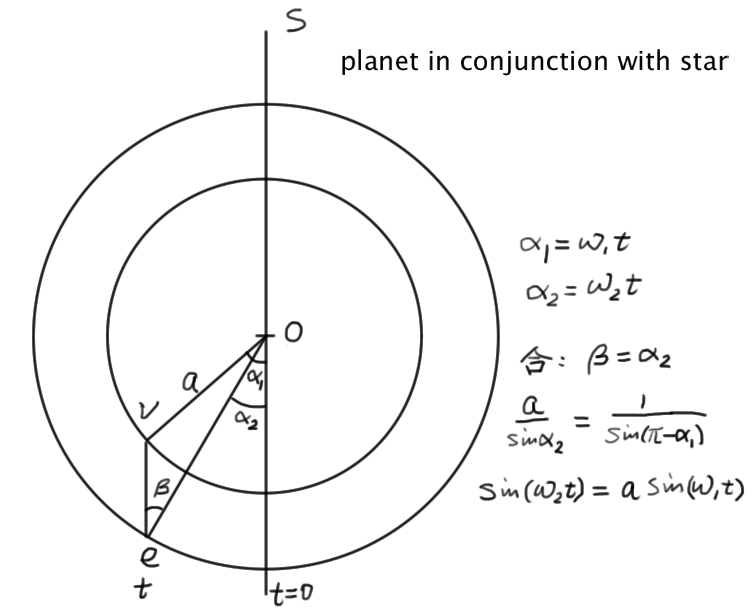
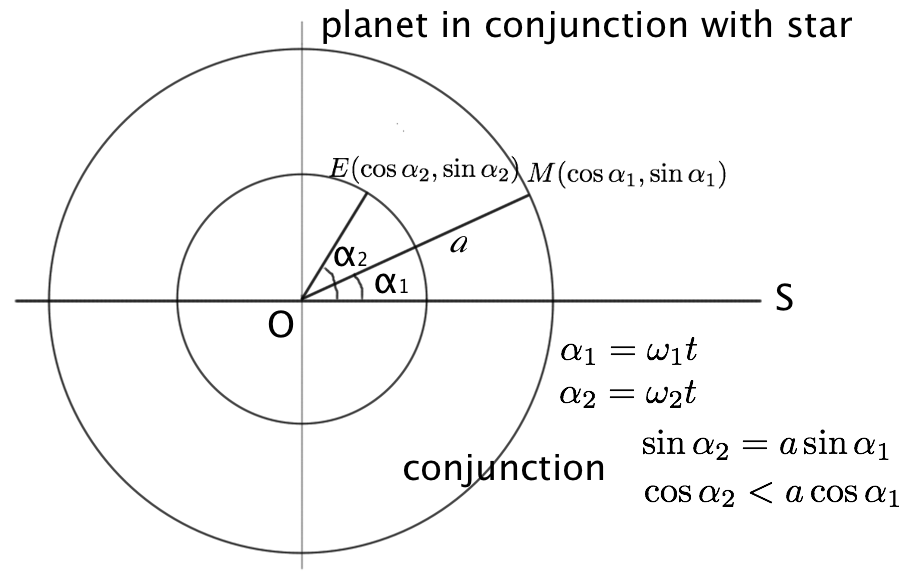
modify post 1

diff --git a/_site/feed/index.html b/_site/feed/index.html
@@ -7,7 +7,7 @@
     <title>dayigu</title>
     <link href="http://dayigu.github.com/feed/" rel="self" />
     <link href="http://yihui.name/" />
-    <lastBuildDate>2012-04-13T01:24:55+08:00</lastBuildDate>
+    <lastBuildDate>2012-04-13T17:55:14+08:00</lastBuildDate>
     <webMaster>xie@yihui.name</webMaster>
     
     <item>
@@ -18,44 +18,59 @@
       <guid>http://dayigu.github.com/2012/04/planet-in-conjunction-with-star</guid>
       <content:encoded><![CDATA[<p>行星与恒星相合是指从地球看过去，行星与该恒星在同一个方位，比如金星与昴星团相合。当然相合的条件首先是恒星位于太阳系行星运行的轨道平面上。那么某行星与某恒星相合的周期是多少呢?</p>
 
-<p>假设行星的轨道都为圆，且与地球轨道在同一平面上. 行星与恒星相合的条件(O为太阳，e是地球，v是行星，以金星为例，S是恒星的方向):</p>
+<p>假设行星的轨道都为圆，且与地球轨道在同一平面上. 行星与恒星相合的条件见下图(O为太阳，E是地球，M是行星，以火星为例，S是恒星的方向):</p>
 
 <p><img alt='行星与恒星相合的条件' src='/images/planet_star_conjunction.png' /></p>
 
-<p>假设在 t=0 时相合，经过 t 的时间再次相合，则 e-&gt;v 必须达到与 t＝0 相同的方向. 因此得到相合的条件:</p>
+<p>假设在 t=0 时相合，经过 t 的时间再次相合，则 e-&gt;v 必须达到与 t＝0 相同的方向，即E和M的y坐标相同，且E在M的左侧. 因此得到相合的条件:</p>
 
-<p><img alt='相合方程' src='/images/latex/eq_7378894517581845269_2.png' /></p>
+<p><img alt='相合方程' src='/images/latex/eq_7378894517581845269_2.png' /> 且 <img alt='相合条件' src='/images/latex/eq_2329005520818939421_2.png' /></p>
 
-<p>该方程不好求解，先把这两项的差值随时间的变化画出来(以金星为例，a=0.7233, 共转周期为224.7 天)</p>
+<p>如果是地球内侧的行星，如火星，则后面的不等式要反号。</p>
 
-<pre><code>import numpy as np
-t=np.array(range(365*5))
-plot(t/365.2422,np.sin(2*np.pi*t/365.2422)-0.7233*np.sin(2*np.pi*t/224.7))
-grid()
-xlabel(&#39;year&#39;)</code></pre>
+<p>该方程不好求解，因此把这两个等式和不等式的两项差值随时间的变化画出来(用 google 搜索直接可以画出曲线)。</p>
+
+<p>如以<a href='https://www.google.com.hk/search?sourceid=chrome&amp;ie=UTF-8&amp;q=sin(2pi*x)-0.72*sin(2pi*x%2F0.62)%2C+cos(2pi*x)-0.72*cos(2pi*x%2F0.62)'>金星</a>为例，a=0.72, 共转周期为0.62年。</p>
 
 <p><img alt='金星与恒星的会合' src='/images/venus_conjunction.png' /></p>
 
-<p>当曲线经过0轴时发生一次相合。因此5年内发生了10次相合，平均每年2次。但也可能某年内相合3次，接下来的1年内只发生1次。</p>
+<p>当蓝色曲线经过x轴，且红色曲线在x轴上面时发生一次相合。因此平均每年内发生1次相合。但也可能某年内相合2次，接下来的1年内没有。</p>
 
-<p>对于地球外侧的行星，其相合条件也一样，把上图中的金星变为地球，地球变为外侧行星，公式也相应换一下。</p>
-
-<p>比如对火星(a=1.52, 共转周期687天)，平均每年1次会合。</p>
+<p>比如对火星(a=1.52, 共转周期1.88年)，平均每年1次会合。</p>
 
 <p><img alt='火星与恒星的会合' src='/images/mars_conjunction.png' /> 木星会合周期就更长了，基本上在木星的共转一周中，只有两次机会与其他恒星相合。</p>
 
-<p><img alt='木星与恒星的会合' src='/images/jupiter_conjunction.png' /> 更外层行星与恒星的会合规律与木星相同，都是在共转一周中发生两次。</p>]]></content:encoded>
-    </item>
-    
-    <item>
-      <title>test</title>
-      <link href="http://dayigu.github.com/2012/04/test/"/>
-      <pubDate>2012-04-12T00:00:00+08:00</pubDate>
-      <author>dayigu</author>
-      <guid>http://dayigu.github.com/2012/04/test</guid>
-      <content:encoded><![CDATA[<p>test</p>
+<p><img alt='木星与恒星的会合' src='/images/jupiter_conjunction.png' /> 更外层行星与恒星的会合规律与木星相同，都是在共转一周中发生两次。</p>
 
-<p>$ E = m c^2 $</p>]]></content:encoded>
+<p>以上的曲线也可以用 google search graph 的功能直接画出:</p>
+
+<ul>
+<li>
+<p><a href='https://www.google.com.hk/search?sourceid=chrome&amp;ie=UTF-8&amp;q=sin(2pi*x)-0.72*sin(2pi*x%2F0.62)%2C+cos(2pi*x)-0.72*cos(2pi*x%2F0.62)'>金星</a></p>
+</li>
+
+<li>
+<p><a href='http://www.google.com/search?sourceid=chrome&amp;ie=UTF-8&amp;q=sin(2*pi*x)-1.52*sin(2*pi*x%2F1.88)'>火星</a></p>
+</li>
+
+<li>
+<p><a href='http://www.google.com/search?sourceid=chrome&amp;ie=UTF-8&amp;q=sin(2*pi*x)-5.20*sin(2*pi*x%2F11.87)'>木星</a></p>
+</li>
+
+<li>
+<p><a href='http://www.google.com/search?sourceid=chrome&amp;ie=UTF-8&amp;q=sin(2*pi*x)-9.55*sin(2*pi*x%2F29.53)'>土星</a></p>
+</li>
+
+<li>
+<p><a href='http://www.google.com/search?sourceid=chrome&amp;ie=UTF-8&amp;q=sin(2*pi*x)-19.26*sin(2*pi*x%2F84.55)'>天王星</a></p>
+</li>
+
+<li>
+<p><a href='http://www.google.com/search?sourceid=chrome&amp;ie=UTF-8&amp;q=sin(2*pi*x)-30.23*sin(2*pi*x%2F166.24)'>海王星</a></p>
+</li>
+</ul>
+
+<p>比如海王星的曲线在 google 中显示为: <img alt='海王星与恒星的会合，by google' src='/images/neptune_conjunction_google.png' /></p>]]></content:encoded>
     </item>
     
   </channel>

diff --git a/_site/index.html b/_site/index.html
@@ -37,13 +37,6 @@
     <a href='http://dayigu.github.com/2012/04/planet-in-conjunction-with-star/' title='行星与恒星的合周期'>行星与恒星的合周期</a>
   </li>
 
-  
-  
-  <li class='listing-item'>
-    <time datetime='2012-04-12'>2012-04-12</time>
-    <a href='http://dayigu.github.com/2012/04/test/' title='test'>test</a>
-  </li>
-
 </ul>
 </section>
 

diff --git a/_posts/2012-04-13-planet-in-conjunction-with-star.md b/_posts/2012-04-13-planet-in-conjunction-with-star.md
@@ -7,32 +7,49 @@ tags: [planet, astronomy, conjunction, Python]
 
 行星与恒星相合是指从地球看过去，行星与该恒星在同一个方位，比如金星与昴星团相合。当然相合的条件首先是恒星位于太阳系行星运行的轨道平面上。那么某行星与某恒星相合的周期是多少呢? 
 
-假设行星的轨道都为圆，且与地球轨道在同一平面上. 行星与恒星相合的条件(O为太阳，e是地球，v是行星，以金星为例，S是恒星的方向):
+假设行星的轨道都为圆，且与地球轨道在同一平面上. 行星与恒星相合的条件见下图(O为太阳，E是地球，M是行星，以火星为例，S是恒星的方向):
 
 ![行星与恒星相合的条件](/images/planet_star_conjunction.png)
 
-假设在 t=0 时相合，经过 t 的时间再次相合，则 e->v 必须达到与 t＝0 相同的方向. 因此得到相合的条件:
+假设在 t=0 时相合，经过 t 的时间再次相合，则 e->v 必须达到与 t＝0 相同的方向，即E和M的y坐标相同，且E在M的左侧. 因此得到相合的条件:
 
 ![相合方程](/images/latex/eq_7378894517581845269_2.png)
+且
+![相合条件](/images/latex/eq_2329005520818939421_2.png)
 
-该方程不好求解，先把这两项的差值随时间的变化画出来(以金星为例，a=0.7233, 共转周期为224.7 天)
+如果是地球内侧的行星，如金星，则后面的不等式要反号。
 
-    import numpy as np
-    t=np.array(range(365*5))
-    plot(t/365.2422,np.sin(2*np.pi*t/365.2422)-0.7233*np.sin(2*np.pi*t/224.7))
-    grid()
-    xlabel('year')
+该方程不好求解，因此把这两个等式和不等式的两项差值随时间的变化画出来(用 google 搜索直接可以画出曲线)。
+
+如以[金星][1]为例，a=0.72, 共转周期为0.62年。
 
 ![金星与恒星的会合](/images/venus_conjunction.png)
 
-当曲线经过0轴时发生一次相合。因此5年内发生了10次相合，平均每年2次。但也可能某年内相合3次，接下来的1年内只发生1次。
+当蓝色曲线经过x轴，且红色曲线在x轴上面时发生一次相合。因此平均每年内发生1次相合。但也可能某年内相合2次，接下来的1年内没有。
 
-对于地球外侧的行星，其相合条件也一样，把上图中的金星变为地球，地球变为外侧行星，公式也相应换一下。
-
-比如对火星(a=1.52, 共转周期687天)，平均每年1次会合。
+比如对火星(a=1.52, 共转周期1.88年)，平均每年1次会合。
 
 ![火星与恒星的会合](/images/mars_conjunction.png)								 									
 木星会合周期就更长了，基本上在木星的共转一周中，只有两次机会与其他恒星相合。
 
 ![木星与恒星的会合](/images/jupiter_conjunction.png)								 									
 更外层行星与恒星的会合规律与木星相同，都是在共转一周中发生两次。
+
+以上的曲线也可以用 google search graph 的功能直接画出:
+
+* [金星][1]
+* [火星][2]
+* [木星][3]
+* [土星][4]
+* [天王星][5]
+* [海王星][6]
+
+  [1]: https://www.google.com.hk/search?sourceid=chrome&ie=UTF-8&q=sin(2pi*x)-0.72*sin(2pi*x%2F0.62)%2C+cos(2pi*x)-0.72*cos(2pi*x%2F0.62)
+  [2]: http://www.google.com/search?sourceid=chrome&ie=UTF-8&q=sin(2*pi*x)-1.52*sin(2*pi*x%2F1.88)
+  [3]: http://www.google.com/search?sourceid=chrome&ie=UTF-8&q=sin(2*pi*x)-5.20*sin(2*pi*x%2F11.87)
+  [4]: http://www.google.com/search?sourceid=chrome&ie=UTF-8&q=sin(2*pi*x)-9.55*sin(2*pi*x%2F29.53)
+  [5]: http://www.google.com/search?sourceid=chrome&ie=UTF-8&q=sin(2*pi*x)-19.26*sin(2*pi*x%2F84.55)
+  [6]: http://www.google.com/search?sourceid=chrome&ie=UTF-8&q=sin(2*pi*x)-30.23*sin(2*pi*x%2F166.24)
+
+比如海王星的曲线在 google 中显示为:
+![海王星与恒星的会合，by google](/images/neptune_conjunction_google.png)
